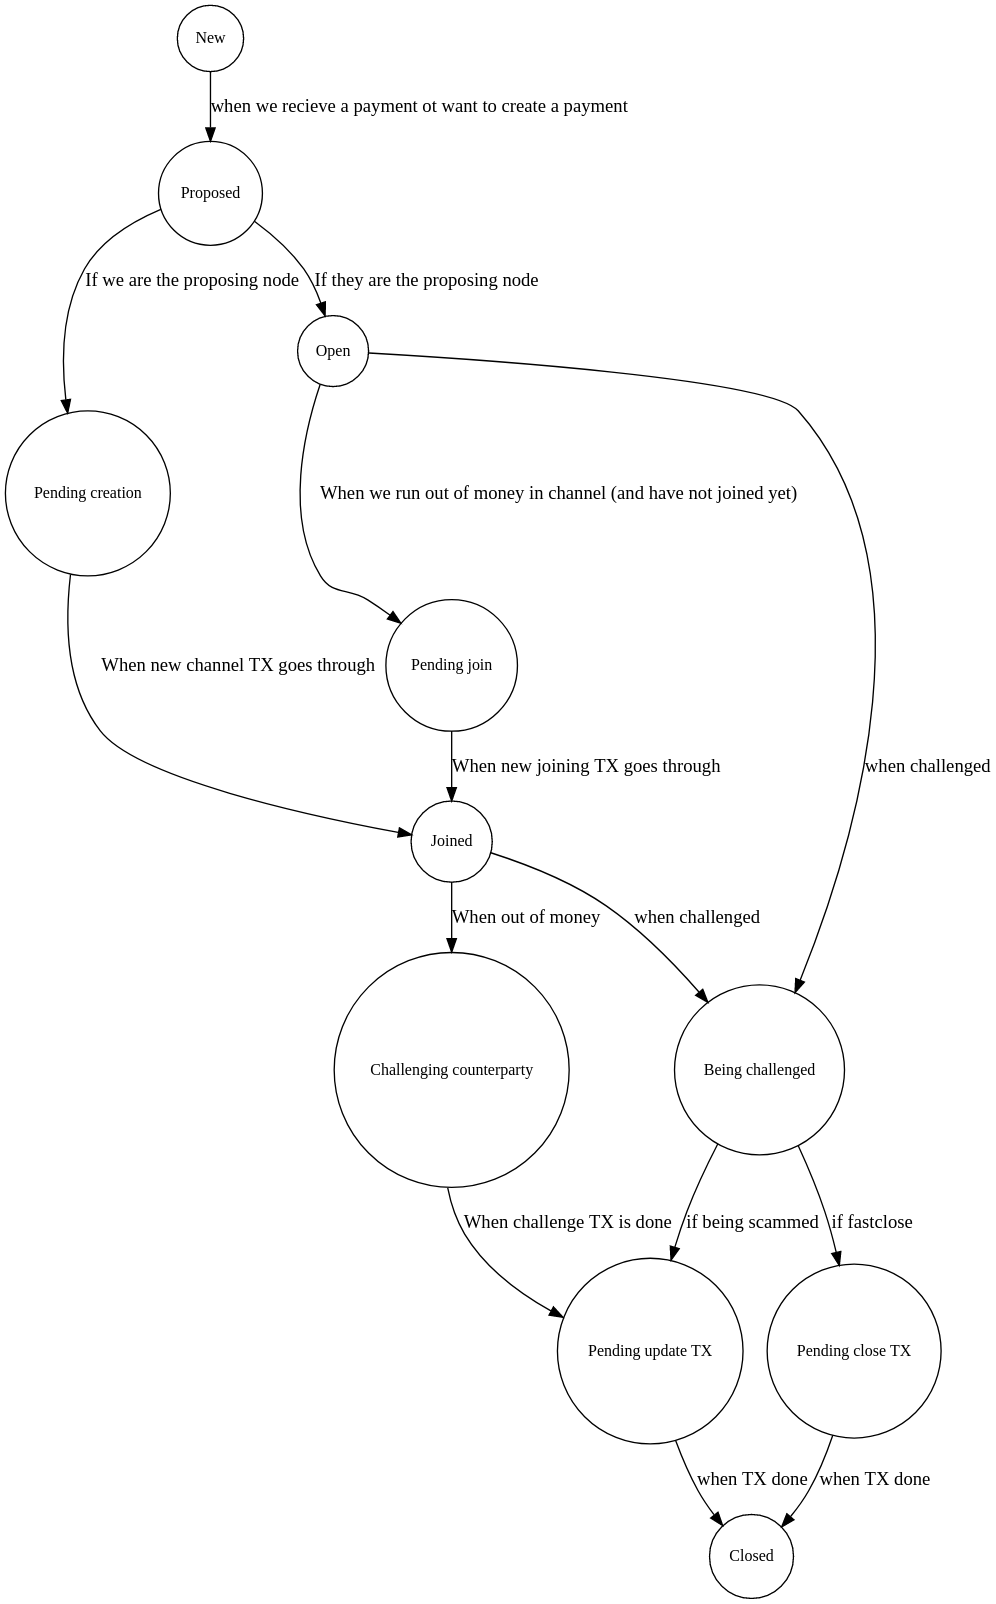
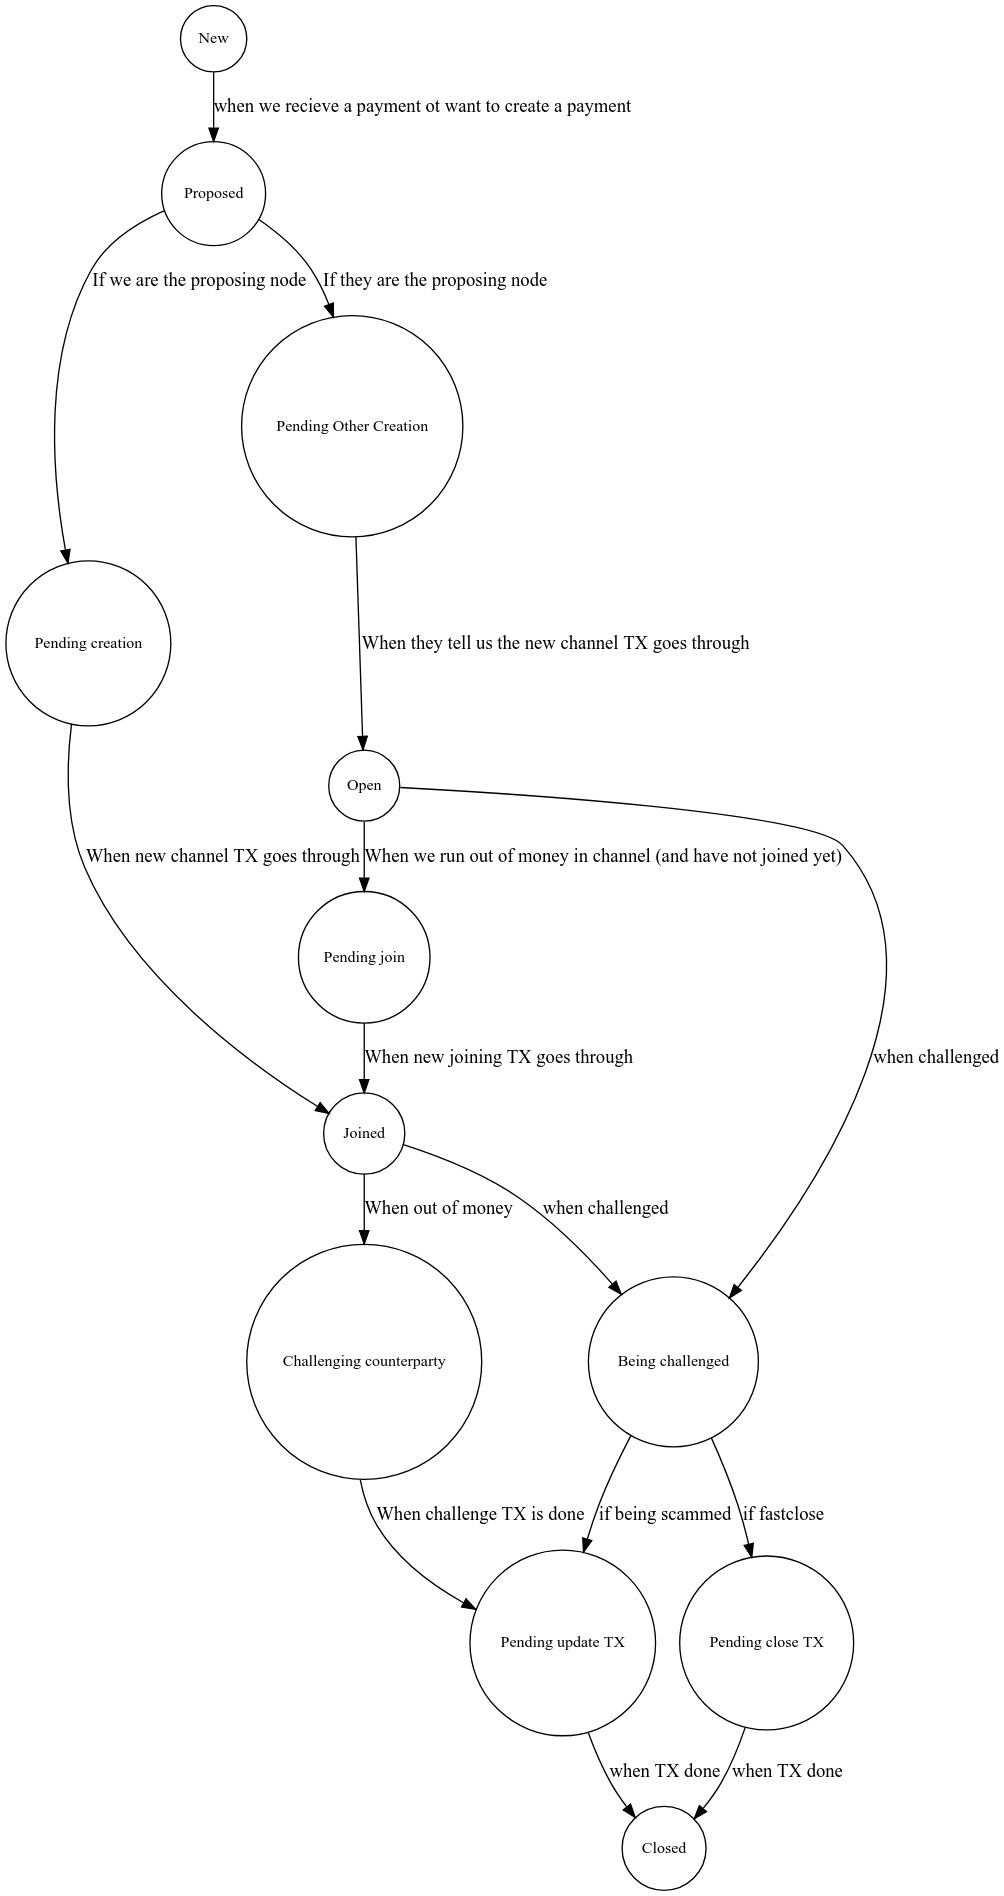
documentation

diff --git a/docs/diagrams/happy_path_flow.md b/docs/diagrams/happy_path_flow.md
@@ -1,0 +1,65 @@
+![](happy_path_flow.png "flow diagram of happy path")
+
+```msc
+msc {
+  hscale = "2";
+
+  guac_a,guac_b,blockchain;
+
+  ---  [ label = "Assuming both parties have each other as counterparties" ];
+
+  guac_a box guac_a [label="state New"],
+  guac_b box guac_b [label="state New"],
+   |||;
+
+  guac_a->guac_b [ label = "POST ChannelProposal to /propose" ] ;
+  
+  guac_a box guac_a [label="state Proposed and accepted True"];
+
+  guac_a<-guac_b [ label = "Accept" ] ;
+
+  guac_b box guac_b [label="state PendingOtherCreation"];
+
+  guac_a->blockchain [ label = "NewChannelTransaction" ] ;
+  
+  guac_a box guac_a [label="state PendingCreation"];
+  
+  ---  [ label = "After some polling..." ];
+
+  guac_a<-blockchain [ label = "NewChannelTransaction processed" ] ;
+
+  guac_a box guac_a [label="state Joined"];
+
+  guac_a->guac_b [ label = "POST ChannelCreatedUpdate to /channel_created" ] ;
+
+  guac_b box guac_b [label="state Open"];
+
+  guac_a->guac_b [ label = "POST UpdatedState to /update" ] ;
+  guac_a<-guac_b [ label = "send back rebased state update" ] ;
+
+  guac_a<-guac_b [ label = "POST UpdatedState to /update" ] ;
+  guac_a->guac_b [ label = "send back rebased state update" ] ;
+
+  ---  [ label = "Until guac b wants to deposit as well" ];
+
+  guac_b->blockchain [ label = "ChannelJoinTransaction" ] ;
+
+  guac_b box guac_b [label="state PendingJoin"];
+    ---  [ label = "After some polling..." ];
+  guac_b<-blockchain [ label = "ChannelJoinTransaction processed" ] ;
+  
+  guac_b box guac_b [label="state Joined (and balances increased)"];
+
+  guac_a<-guac_b [ label = "POST /channel_joined" ] ;
+  
+  guac_a box guac_a [label="state Joined (and balances increased)"];
+
+  guac_a->guac_b [ label = "POST UpdatedState to /update" ] ;
+  guac_a<-guac_b [ label = "send back rebased state update" ] ;
+
+  guac_a<-guac_b [ label = "POST UpdatedState to /update" ] ;
+  guac_a->guac_b [ label = "send back rebased state update" ] ;
+    ---  [ label = "repeat to heart's content" ];
+
+}
+```

diff --git a/docs/guac-external-api/init.md b/docs/guac-external-api/init.md
@@ -1,19 +1,35 @@
-# This file documents the requests which guac makes to contacts another guac node to start a channel
-
-(actual endpoint names, ports, types WIP)
+# This file documents the requests which guac makes to contacts another guac node
 
 ## Propose Channel
 Tells a neighbor if you would like to accept a channel from them
 
-Request data type: `Channel` (maybe a different type, but basically all the info you need to call the
+Endpoint: /propose
+
+Request data type: `Channel` (basically all the info you need to call the
 `openChannel` contract call. Important values to check are the challenge period and the token
 contract (if using erc20 tokens))
 
 return type: `bool` accept or reject (maybe a enum in the future for different rejection reasons)
 
-## Join Channel
-Join the channel of a neighbor who has previously proposed a channel to you
+## Update
+Tells your counterparty about your new state
+
+Endpoint: /update
+
+Request data type: `UpdateTx`
+Return data type: `UpdateTx` (containing rebased transaction data from their local state)
+
+## Channel Created
+Tells your neighbor who has previously accepted your proposal that the your channel creation transaction
+has been confirmed
 
 Request data type: `Channel`
 
-return data type: `bool` for acknowledgement
+return data type: `null`
+
+## Channel Joined
+Tells your neighbor who has a channel open with you that your channel join transaction has been confirmed 
+
+Request data type: `Channel`
+
+return data type: `null`

diff --git a/docs/diagrams/channel_state.md b/docs/diagrams/channel_state.md
@@ -1,3 +1,5 @@
+![](channel_state.png "exit channel state diagram")
+# Graphviz code to generate diagram
 ```
 digraph channel_state {
     rankdir=TB
@@ -8,6 +10,7 @@ digraph channel_state {
     node [shape = circle, label="Joined", fontsize=12] joined;
     node [shape = circle, label="Pending join", fontsize=12] pendj;
     node [shape = circle, label="Open", fontsize=12] open;
+    node [shape = circle, label="Open", fontsize=12] pendingoc;
 
     node [shape = circle, label="Closed", fontsize=12] closed;
     node [shape = circle, label="Challenging counterparty", fontsize=12] initchall;
@@ -17,7 +20,8 @@ digraph channel_state {
 
     new  -> prop [label="when we recieve a payment ot want to create a payment"];
     prop -> pendc [label="If we are the proposing node"];
-    prop -> open [label="If they are the proposing node"];
+    prop -> pendingoc [label="If they are the proposing node"];
+    pendingoc -> open [label="When they tell us the new channel TX goes through"];
     pendc -> joined [label="When new channel TX goes through"];
     open -> pendj [label="When we run out of money in channel (and have not joined yet)"];
     pendj -> joined [label="When new joining TX goes through"];
